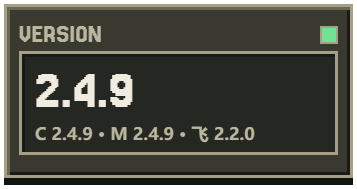
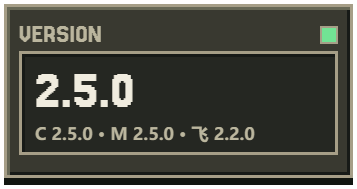
docs(release): 新增 2.5.0 发行说明与文档同步

Changed region(s): [[0.1849, 0.3704, 0.3697, 0.582], [0.4006, 0.6614, 0.493, 0.7407], [0.1849, 0.6614, 0.2773, 0.7407]]

diff --git a/README.md b/README.md
@@ -12,18 +12,18 @@
 </picture>
 
 <p>
-  <a href="https://github.com/Fish-under-sea/FISH-DOCK-Plugins/releases/tag/v2.4.9"><picture><source media="(prefers-color-scheme: dark)" srcset="assets/readme/config-stat-version-zh-dark.png"><img src="assets/readme/config-stat-version-zh-light.png" alt="VERSION：2.4.9（Magpie、Clash）" width="23%"></picture></a>
+  <a href="https://github.com/Fish-under-sea/FISH-DOCK-Plugins/releases/tag/v2.5.0"><picture><source media="(prefers-color-scheme: dark)" srcset="assets/readme/config-stat-version-zh-dark.png"><img src="assets/readme/config-stat-version-zh-light.png" alt="VERSION：2.5.0（Magpie、Clash）" width="23%"></picture></a>
   <a href="#plugins"><picture><source media="(prefers-color-scheme: dark)" srcset="assets/readme/config-stat-desktop-zh-dark.png"><img src="assets/readme/config-stat-desktop-zh-light.png" alt="PLUGINS：三个独立插件" width="23%"></picture></a>
   <a href="#packages"><picture><source media="(prefers-color-scheme: dark)" srcset="assets/readme/config-stat-mail-zh-dark.png"><img src="assets/readme/config-stat-mail-zh-light.png" alt="PACKAGES：三个 npm 单包" width="23%"></picture></a>
   <a href="https://github.com/Fish-under-sea/FISH-Dock"><picture><source media="(prefers-color-scheme: dark)" srcset="assets/readme/config-stat-channels-zh-dark.png"><img src="assets/readme/config-stat-channels-zh-light.png" alt="HOST API：1，兼容 FISH Dock 2.0.0+" width="23%"></picture></a>
 </p>
 
-<p><img src="https://img.shields.io/badge/Node.js-24.14%2B-8fd6a0?style=flat-square&amp;logo=nodedotjs&amp;logoColor=white&amp;labelColor=5a544a" alt="Node.js 24.14+"> <img src="https://img.shields.io/badge/Adapter%20License-MIT-8fd6a0?style=flat-square&amp;labelColor=5a544a" alt="插件适配代码许可 MIT"> <img src="https://img.shields.io/badge/mihomo-GPL--3.0-f08a5d?style=flat-square&amp;labelColor=5a544a" alt="随包 mihomo 许可 GPL-3.0"> <img src="https://img.shields.io/badge/Plugins-2.4.9-8fd6a0?style=flat-square&amp;labelColor=5a544a" alt="Magpie 2.4.9 与 Clash 2.4.9"></p>
+<p><img src="https://img.shields.io/badge/Node.js-24.14%2B-8fd6a0?style=flat-square&amp;logo=nodedotjs&amp;logoColor=white&amp;labelColor=5a544a" alt="Node.js 24.14+"> <img src="https://img.shields.io/badge/Adapter%20License-MIT-8fd6a0?style=flat-square&amp;labelColor=5a544a" alt="插件适配代码许可 MIT"> <img src="https://img.shields.io/badge/mihomo-GPL--3.0-f08a5d?style=flat-square&amp;labelColor=5a544a" alt="随包 mihomo 许可 GPL-3.0"> <img src="https://img.shields.io/badge/Plugins-2.5.0-8fd6a0?style=flat-square&amp;labelColor=5a544a" alt="Magpie 2.5.0 与 Clash 2.5.0"></p>
 <p><strong>FISH Plugins &amp; Configuration · 插件配置仓</strong><br>官方插件、配置说明与发行入口；按需安装，独立运行。</p>
 
 <p>
   <a href="#get-started"><picture><source media="(prefers-color-scheme: dark)" srcset="assets/readme/key-download-zh-dark.png"><img src="assets/readme/key-download-zh-light.png" alt="下载 / Releases" height="40"></picture></a>
-  <a href="https://github.com/Fish-under-sea/FISH-DOCK-Plugins/releases/tag/v2.4.9"><picture><source media="(prefers-color-scheme: dark)" srcset="assets/readme/key-release-zh-dark.png"><img src="assets/readme/key-release-zh-light.png" alt="更新记录" height="40"></picture></a>
+  <a href="https://github.com/Fish-under-sea/FISH-DOCK-Plugins/releases/tag/v2.5.0"><picture><source media="(prefers-color-scheme: dark)" srcset="assets/readme/key-release-zh-dark.png"><img src="assets/readme/key-release-zh-light.png" alt="更新记录" height="40"></picture></a>
   <a href="https://github.com/Fish-under-sea/FISH-DOCK-Plugins/issues"><picture><source media="(prefers-color-scheme: dark)" srcset="assets/readme/key-issues-zh-dark.png"><img src="assets/readme/key-issues-zh-light.png" alt="反馈 / Issues" height="40"></picture></a>
 </p>
 
@@ -35,10 +35,11 @@
 
 每个插件独立保存配置与凭据，按需启动，不共享业务密钥。插件仓只发布插件资源，桌面安装包请前往 [FISH-Dock](https://github.com/Fish-under-sea/FISH-Dock) 。
 
-当前发行（以 `catalog/stable.json` 为唯一权威）：Magpie **2.4.9**（原生标识 `v0.1.4530+fish.49`，要求 FISH Dock ≥ 2.3.4）、Clash **2.4.9**（要求 FISH Dock ≥ 2.0.0）、飞书 **2.2.0**。本版详见 [2.4.9 发行说明](docs/releases/2.4.9.md) （Magpie 追平上游 `v0.1.4530` 并重扫 163 条液态玻璃表面覆盖；Clash 修复 Issue #57 沙箱 CSP 下 `blob:` 壁纸上传失败并区分解码与压缩超限提示）；上版详见 [2.4.8 发行说明](docs/releases/2.4.8.md) 。
+当前发行（以 `catalog/stable.json` 为唯一权威）：Magpie **2.5.0**（原生标识 `v0.1.4650+fish.50`，要求 FISH Dock ≥ 2.3.4）、Clash **2.5.0**（内置 `mihomo v1.19.34`，要求 FISH Dock ≥ 2.0.0）、飞书 **2.2.0**。本版详见 [2.5.0 发行说明](docs/releases/2.5.0.md) （Magpie 追平上游 `v0.1.4650`、接入 Dock 玻璃与字体「跟随」、顶栏玻璃自动透明并收敛强调色对玻璃底色的染色；Clash 升级 `mihomo v1.19.34`、新增用户级环境变量代理开关、接入 Dock 玻璃与字体「跟随」并补齐深色字体单独设置）；上版详见 [2.4.9 发行说明](docs/releases/2.4.9.md) 。
 
-**最近版本**（当前 2.4.9；每一版的完整说明见 [docs/releases](docs/releases) ）
+**最近版本**（当前 2.5.0；每一版的完整说明见 [docs/releases](docs/releases) ）
 
+- **2.5.0** · Magpie（`fish.50`）：追平上游 `v0.1.4650` 并重扫 165 条玻璃表面规则，接入 Dock 液态玻璃与字体「跟随」（补齐 SSE 桥接与 Node 24 断流修复），玻璃模式下顶部服务条自动透明并收敛强调色对玻璃底色的染色；Clash：内置 `mihomo` 升级至 `v1.19.34`，新增显式环境变量代理开关（`HTTP_PROXY` / `HTTPS_PROXY` / `NO_PROXY` 与看门狗租约还原），接入 Dock 玻璃与字体「跟随」并补齐深色字体单独设置。→ [说明](docs/releases/2.5.0.md)
 - **2.4.9** · Magpie（`fish.49`）：追平上游 `v0.1.4530` 并重扫 163 条液态玻璃表面规则；Clash：修复严格沙箱 CSP（`img-src 'self' data:`）下 `blob:` URL 导致壁纸上传必败（改用 `createImageBitmap` + `FileReader` 兜底），分离格式/解码/超限报错文案。→ [说明](docs/releases/2.4.9.md)
 - **2.4.8** · Magpie（`fish.48`）：清除 `#view-providers .after-list::before` 遮罩背景条与 `.mo-node` 黑圈，统一路由卡/网关搜索与徽章/侧栏与弹层菜单/模型胶囊 `.mchip` 液态玻璃、未用连线改白、提升未选 Agent 图标可见度并同步 `distillRow()` 实时审阅计数。Clash：重构通用规则与双模式（系统代理真实 IP + TUN Fake-IP）DNS/Sniffer 管线，独立 `🐙 GitHub` 代理组接管 GitHub/npm 流量，修正 `cn.bing.com` 与微软/苹果国内服务直连，拦截海外 UDP 443（QUIC），过滤订阅信息伪节点并启用 `♻ 自动选择` 与 `🩺 故障转移`。→ [说明](docs/releases/2.4.8.md)
 - **2.4.7** · Magpie（`fish.47`）：补全 `.rt`、`.lib-card`、`.msk-*`、`.pr-*`、`.pu-*` 等外圈卡片与内层液态玻璃，清除 `.rt-hub` 4px 黑环与路由组/请求列表等黑块悬浮选中态，统一全站玻璃按钮样式；补齐 `--ctl-fg`、暗色字体权重与全局 `::placeholder` 调色命中；替换 Obsidian 紫色晶石图标。Clash：修复 TUN 服务自删、读写竞态断连、无内核独立开启与并发锁，优化 TUN 网速路由与 DNS 配置，修正输入框次要文字着色、节点组弹窗向下滚动展开、长日志换行与设置页头部 `16px` 边距。→ [说明](docs/releases/2.4.7.md)
@@ -54,7 +55,7 @@
 
 > ⚠ **2.0.0 是 breaking 版本**：插件清单新增 `behaviors` 字段，FISH Dock 1.2.3 及更早的宿主用 `deny_unknown_fields` 解析，会以「plugin.json 格式无效或含未知字段」直接拒装。**旧宿主请先把 Dock 升到 2.0.0**，再安装这些插件。
 
-> ⚠ npm 上 `@fish-under-sea/fish-dock-plugin-clash@1.1.0` 为误发版本（基于旧基线，缺少 1.0.4 的多订阅修复），请勿使用；当前 Magpie 与 Clash 单包均为 `2.4.9`、飞书是 `2.2.0`，OFM 停在 `2.0.1`（已退役）。
+> ⚠ npm 上 `@fish-under-sea/fish-dock-plugin-clash@1.1.0` 为误发版本（基于旧基线，缺少 1.0.4 的多订阅修复），请勿使用；当前 Magpie 与 Clash 单包均为 `2.5.0`、飞书是 `2.2.0`，OFM 停在 `2.0.1`（已退役）。
 
 <h2 id="plugins"><picture><source media="(prefers-color-scheme: dark)" srcset="assets/readme/section-features-dark.png"><img src="assets/readme/section-features-light.png" alt="PLUGINS · 三个插件" width="100%"></picture></h2>
 
@@ -66,13 +67,13 @@
 
 ### Clash 代理
 
-基于 `mihomo`（`v1.19.15`）内核的桌面代理控制插件，随包内置 `GeoSite.dat` 与 `GeoIP.dat` 规则数据，支持多订阅校验切换、代理组与节点延迟测速、Windows 系统代理接管与自愈看门狗、Windows TUN 虚拟网卡服务管理，以及独立「外观」调节与 360° Fresnel 液态玻璃主题。代理内核仅绑定本地回环地址，与宿主页状态同步互锁。作者：Elysia395、FISH。
+基于 `mihomo`（`v1.19.34`）内核的桌面代理控制插件，随包内置 `GeoSite.dat` 与 `GeoIP.dat` 规则数据，支持多订阅校验切换、代理组与节点延迟测速、Windows 系统代理与用户级环境变量代理（`HTTP_PROXY` / `HTTPS_PROXY` / `NO_PROXY`）接管与自愈看门狗、Windows TUN 虚拟网卡服务管理，以及独立「外观」调节与 360° Fresnel 液态玻璃主题（支持跟随 Dock 主题与深色字体单独设置）。代理内核仅绑定本地回环地址，与宿主页状态同步互锁。作者：Elysia395、FISH。
 
 <p align="center"><img src="assets/readme/clash.png" width="760" alt="Clash 代理插件界面"></p>
 
 ### Magpie 网关
 
-独立多模型网关与原生桌面管理页，统一管理订阅源、API Key、智能路由组与用量统计，并内置 Obsidian 知识库记忆 Agent，可直接串联多款本地 Coding Agent。管理页、模型网关与 Dock 嵌入代理各自采用独立回环端口，并与宿主插件卡共用「自启动」开关；界面支持四区域 360° Fresnel 液态玻璃、自定义壁纸与多层级字体配色。扩展页面插件（如「签到 & 探针」与「破甲」）按 npm 包登记并交由 Magpie 自主拉取更新。作者：FISH、Jassdingk。
+独立多模型网关与原生桌面管理页，统一管理订阅源、API Key、智能路由组与用量统计，并内置 Obsidian 知识库记忆 Agent，可直接串联多款本地 Coding Agent。管理页、模型网关与 Dock 嵌入代理各自采用独立回环端口，并与宿主插件卡共用「自启动」开关；界面支持四区域 360° Fresnel 液态玻璃、Dock 主题/玻璃「跟随」、自定义壁纸与多层级字体配色。扩展页面插件（如「签到 & 探针」与「破甲」）按 npm 包登记并交由 Magpie 自主拉取更新。作者：FISH、Jassdingk。
 
 <p align="center"><img src="assets/readme/magpie.png" width="760" alt="Magpie 网关插件界面"></p>
 
@@ -82,7 +83,7 @@
 
 <h2 id="get-started"><picture><source media="(prefers-color-scheme: dark)" srcset="assets/readme/section-install-dark.png"><img src="assets/readme/section-install-light.png" alt="INSTALL · 安装使用" width="100%"></picture></h2>
 
-安装前先核对宿主版本：Magpie 是 2.4.9（要求 FISH Dock ≥ 2.3.4）、Clash 是 2.4.9、飞书是 2.2.0，**FISH Dock 需要 2.0.0 及以上**；1.2.3 及更早的宿主会因清单里的 `behaviors` 字段拒装。
+安装前先核对宿主版本：Magpie 是 2.5.0（要求 FISH Dock ≥ 2.3.4）、Clash 是 2.5.0、飞书是 2.2.0，**FISH Dock 需要 2.0.0 及以上**；1.2.3 及更早的宿主会因清单里的 `behaviors` 字段拒装。
 
 **方式一：Dock 内插件市场（推荐）**
 
@@ -101,22 +102,22 @@
 | 插件 | GitHub 包 | npm 单包 |
 | --- | --- | --- |
 | 飞书 2.2.0 | [`feishu.fish-plugin`](https://github.com/Fish-under-sea/FISH-DOCK-Plugins/releases/download/v2.2.0/feishu.fish-plugin) | [`@fish-under-sea/fish-dock-plugin-feishu`](https://www.npmjs.com/package/@fish-under-sea/fish-dock-plugin-feishu/v/2.2.0) |
-| Clash 2.4.9 | [`clash.fish-plugin`](https://github.com/Fish-under-sea/FISH-DOCK-Plugins/releases/download/v2.4.9/clash.fish-plugin) | [`@fish-under-sea/fish-dock-plugin-clash`](https://www.npmjs.com/package/@fish-under-sea/fish-dock-plugin-clash/v/2.4.9) |
-| Magpie 2.4.9 | [`magpie.fish-plugin`](https://github.com/Fish-under-sea/FISH-DOCK-Plugins/releases/download/v2.4.9/magpie.fish-plugin) | [`@fish-under-sea/fish-dock-plugin-magpie`](https://www.npmjs.com/package/@fish-under-sea/fish-dock-plugin-magpie/v/2.4.9) |
+| Clash 2.5.0 | [`clash.fish-plugin`](https://github.com/Fish-under-sea/FISH-DOCK-Plugins/releases/download/v2.5.0/clash.fish-plugin) | [`@fish-under-sea/fish-dock-plugin-clash`](https://www.npmjs.com/package/@fish-under-sea/fish-dock-plugin-clash/v/2.5.0) |
+| Magpie 2.5.0 | [`magpie.fish-plugin`](https://github.com/Fish-under-sea/FISH-DOCK-Plugins/releases/download/v2.5.0/magpie.fish-plugin) | [`@fish-under-sea/fish-dock-plugin-magpie`](https://www.npmjs.com/package/@fish-under-sea/fish-dock-plugin-magpie/v/2.5.0) |
 
 <h2 id="packages"><picture><source media="(prefers-color-scheme: dark)" srcset="assets/readme/section-packages-dark.png"><img src="assets/readme/section-packages-light.png" alt="PACKAGES · npm 单包" width="100%"></picture></h2>
 
-每个 npm 包只包含一个对应的插件归档和下载 CLI（bin 名 `fish-dock-plugin-<插件>`），不运行安装后脚本，不修改 Dock 或系统设置。当前 npm 上 **Magpie 与 Clash 均为 2.4.9、飞书是 2.2.0**（OFM 单包停在 2.0.1，已退役只供手动下载），要求 **Node.js ≥ 24** 与 **FISH Dock ≥ 2.0.0**。
+每个 npm 包只包含一个对应的插件归档和下载 CLI（bin 名 `fish-dock-plugin-<插件>`），不运行安装后脚本，不修改 Dock 或系统设置。当前 npm 上 **Magpie 与 Clash 均为 2.5.0、飞书是 2.2.0**（OFM 单包停在 2.0.1，已退役只供手动下载），要求 **Node.js ≥ 24** 与 **FISH Dock ≥ 2.0.0**。
 
 | npm 单包（完整包名） | 版本 | bin | `npm pack` 体积 |
 | --- | --- | --- | --- |
 | `@fish-under-sea/fish-dock-plugin-feishu` | 2.2.0 | `fish-dock-plugin-feishu` | 38.6 kB（6 个文件） |
-| `@fish-under-sea/fish-dock-plugin-clash` | 2.4.9 | `fish-dock-plugin-clash` | 16.9 MB（7 个文件，含 mihomo 许可） |
-| `@fish-under-sea/fish-dock-plugin-magpie` | 2.4.9 | `fish-dock-plugin-magpie` | 51.9 MB（7 个文件，含 Magpie 许可） |
+| `@fish-under-sea/fish-dock-plugin-clash` | 2.5.0 | `fish-dock-plugin-clash` | 27.4 MB（7 个文件，含 mihomo 许可） |
+| `@fish-under-sea/fish-dock-plugin-magpie` | 2.5.0 | `fish-dock-plugin-magpie` | 55.3 MB（7 个文件，含 Magpie 许可） |
 | `@fish-under-sea/fish-dock-plugin-ofm` | 2.0.1（暂停维护，仅手动） | `fish-dock-plugin-ofm` | 1.9 MB（6 个文件） |
 
 ```powershell
-npm install @fish-under-sea/fish-dock-plugin-clash@2.4.9
+npm install @fish-under-sea/fish-dock-plugin-clash@2.5.0
 npx @fish-under-sea/fish-dock-plugin-clash --out C:/work/plugins
 ```
 
@@ -147,7 +148,7 @@ node --test --test-isolation=none 'plugins/feishu/*.test.mjs' 'plugins/clash/*.t
 | [自编译 Magpie](plugins/magpie/tools/README.md) | 补丁清单与每一处为什么补、构建命令、版本标识、跟着上游升级时会踩的坑 |
 | [签到&探针说明](https://github.com/Fish-under-sea/magpie-checkin-relay-probe) | 宿主提供哪些读与调用、「预装插件美化」开关怎么工作、素材为什么编进 exe |
 | [厂商素材来源](https://github.com/Fish-under-sea/magpie-checkin-relay-probe/tree/main/page/checkin/logos) | 每张厂商图的来源、裁切范围与授权状况 |
-| [发行说明](docs/releases/) | 逐版本的改动与验证；最新是 [2.4.9](docs/releases/2.4.9.md) |
+| [发行说明](docs/releases/) | 逐版本的改动与验证；最新是 [2.5.0](docs/releases/2.5.0.md) |
 | [第三方许可](THIRD_PARTY_NOTICES.md) | 随包运行时的许可与来源（mihomo 的 GPL-3.0、Magpie 的随包许可等） |
 | [README 头图维护](assets/readme/MAINTAINING.md) | 头图怎么渲染、字号与卡片尺寸的约束、哪些东西不能换 |
 

diff --git a/docs/releases/2.5.0.md b/docs/releases/2.5.0.md
@@ -1,0 +1,36 @@
+# 2.5.0 发行说明
+
+**Magpie** 升级到 **2.5.0**（追平上游 `yetone/magpie@v0.1.4650`，累计补丁 `v0.1.4650+fish.50` / Windows FileVersion `0.1.4650.50`，要求 FISH Dock ≥ 2.3.4），**Clash** 升级到 **2.5.0**（内置内核升级至 `mihomo v1.19.34`、新增用户级环境变量代理开关、接入 Dock 玻璃与字体「跟随」并补齐深色字体单独设置，要求 FISH Dock ≥ 2.0.0），**飞书**保持 `2.2.0` 不变。
+
+## 本版更新（Clash 2.5.0）
+
+- **新增显式环境变量代理（`HTTP_PROXY` / `HTTPS_PROXY` / `NO_PROXY`）**：在「网络设置」卡片新增独立开关（默认开启，便于 TUN 模式与终端 / AGY 工具链直接复用代理）。内核启动时写入 `HKCU\Environment` 并广播 `WM_SETTINGCHANGE`，自动保留已有 `NO_PROXY` 例外并去重补齐本机回环；停机、异常退出、启动自愈与 Windows 看门狗 `recover` 均同步还原 `system-proxy.json` 与 `env-proxy.json` 租约。
+- **内置 `mihomo` 内核升级至 `v1.19.34`**：由 `v1.19.15` 升级至上游 `mihomo-windows-amd64-compatible-v1.19.34`（Go 1.26.11 / `with_gvisor`），通过实机配置语法与多订阅 SafePath 校验。
+- **液态玻璃与字体颜色接入 Dock Hook（「跟随」）+ 深色字体单独设置**：接入新版宿主 `FishDock.theme`，液态玻璃预设与字体颜色模式均新增「跟随」选项；补齐字体颜色「深色单独设置」（`fontDark` / `fontDarkOn`）；收敛玻璃表面不随强调色染色，且不额外引入强调色选择器。
+
+## 本版更新（Magpie 2.5.0 · `fish.50` · 基线 `v0.1.4650`）
+
+- **上游追平至 `v0.1.4650`**：合入上游最新网关、供应商与界面改动，消解 `fish.49` 全部 8 处冲突与 `geminiServed` 命名冲突（fish 侧改为 `audioGeminiServed`），修正 `i18n.js` 缩进并重扫 `glass-surfaces.mjs --write`（165 条玻璃表面规则），导出新累计补丁 `magpie-v0.1.4650+fish.50.patch`；同步更新脚本字节预算（`appScriptBudget = 1_099_222`、`coreScriptBudget = 1_285_652`）。
+- **液态玻璃与字体颜色接入 Dock Hook（「跟随」）**：适配层（`embed-proxy.mjs`、`shared/gateway-page.js`）新增 `/api/fish/dock-theme`、SSE `/api/fish/dock-theme/stream` 与 `/api/fish/glass-state` 桥接，并修复 Node 24 下 `req.once('close')` 过早断开 SSE 流的问题；Magpie 外观页液态玻璃预设与字体颜色模式均新增「跟随」并持久化 `fishGlassFollow` / `fontColorsFollow`。
+- **玻璃模式下顶部服务条自动透明**：`shared/gateway-page.css` / `shared/gateway-page.js` 在 `data-dock-glass="1"` 或 `data-magpie-glass="1"` 生效时自动隐藏顶部服务栏黑色底色（不增设开关，保留 `prefers-reduced-transparency: reduce` 与 `forced-colors: active` 可读性回退）。
+- **收敛字体强调色对液态玻璃的染色**：在 `fish-glass.css` 中将玻璃表面/卡片/面板/遮罩底色收敛为中性色，并移除 `.rt-groups > .rt-gedit` 的 `--accent` 底色铺染，保留开关、聚焦与文字强调色本身。
+
+## 下载与校验
+
+| 产物 | 大小 | SHA-256 |
+| --- | --- | --- |
[4 lines of base64/hex data omitted]
+
+- npm 单包：
+  - `@fish-under-sea/fish-dock-plugin-clash@2.5.0`（压缩后 27.4 MB，解包 27.8 MB，7 个文件）
+  - `@fish-under-sea/fish-dock-plugin-magpie@2.5.0`（压缩后 55.3 MB，解包 55.4 MB，7 个文件）
[1 lines of base64/hex data omitted]
+
+## 验证范围
+
+- **Magpie `fish.50`**：干净 `v0.1.4650` + `magpie-v0.1.4650+fish.50.patch` 导出、`check-assets-refs.mjs` 悬空引用校验、`fish-glass.test.cjs`（8/8 通过）、`go test ./internal/gui` 定向核心/外观/持久化用例（16/16 通过）及 `memagent` / `memory` / `fishvault` / `relay` / `settingsapi` / `settings`（跳过上游既有 2s `filememo` 窗口项 `TestSharedCheckedReadsOnceAndKnowsUnknown`）全部通过。
+- **全仓 JS/CJS 套件**：进程隔离 `node --test` 注入实机 `mihomo v1.19.34` 与 `magpie v0.1.4650+fish.50` 跑完主套件 388 项（385 通过 / 0 失败 / 3 按环境跳过）及 Obsidian 插件测试 15/15 通过；真实 Edge + Playwright 定向运行 `page.browser.test.mjs`（`Dock Glass Follow|严格 CSP`）2/2 通过。
+- **发行物校验**：拉取最新含 `FishDock.theme` 钩子的 Dock SDK 打包，`verify-release.mjs`（逐资源 SHA-256 + `.mjs` 语法门 + npm 字节一致性）与 `npm pack --dry-run` 校验通过。

diff --git a/docs/maintainers/README.md b/docs/maintainers/README.md
@@ -1,8 +1,8 @@
 # 插件维护者指南
 
-2.0.0 把当时的四个官方插件一起升到大版本：飞书、Clash、Magpie、OFM 全部 2.0.0，配套 FISH Dock 2.0.0+。作者改为数组、维护者字段整体去掉。OFM 已于 2026-10-25 暂停维护，2.3.0 起从官方目录与活动构建链退役，历史适配层见 [docs/archive/ofm](../archive/ofm/README.md) 。Magpie 随包的原生服务早已不是官方版：2.0.1 起是**源码自编译**（基线上游 tag 加我们自己的补丁，当前 `v0.1.4530+fish.49`），原因与补丁清单见 [自编译说明](../../plugins/magpie/tools/README.md) 。
+2.0.0 把当时的四个官方插件一起升到大版本：飞书、Clash、Magpie、OFM 全部 2.0.0，配套 FISH Dock 2.0.0+。作者改为数组、维护者字段整体去掉。OFM 已于 2026-10-25 暂停维护，2.3.0 起从官方目录与活动构建链退役，历史适配层见 [docs/archive/ofm](../archive/ofm/README.md) 。Magpie 随包的原生服务早已不是官方版：2.0.1 起是**源码自编译**（基线上游 tag 加我们自己的补丁，当前 `v0.1.4650+fish.50`），原因与补丁清单见 [自编译说明](../../plugins/magpie/tools/README.md) 。
 
-**当前版本**（以 `catalog/stable.json` 为唯一权威）：飞书 **2.2.0**、Clash **2.4.9**、Magpie **2.4.9**（Magpie exe `v0.1.4530+fish.49`，追平上游 `v0.1.4530` 并重扫 163 条液态玻璃表面规则；Clash 修复 Issue #57 严格沙箱 CSP 下壁纸上传失败，改用 `createImageBitmap` + `FileReader` 兜底并拆分报错提示）。发行走 `v2.x.y` 之类的总 tag，一个 release 里放当次要发的包——不必三插件同版。发行工具生成标准 ZIP 插件包、逐资源 SHA-256、商店目录及总摘要；桌面安装器与业务插件分别在各自仓库发布。
+**当前版本**（以 `catalog/stable.json` 为唯一权威）：飞书 **2.2.0**、Clash **2.5.0**、Magpie **2.5.0**（Magpie exe `v0.1.4650+fish.50`，追平上游 `v0.1.4650`、接入 Dock 玻璃与字体「跟随」、玻璃模式顶栏自动透明并收敛强调色对玻璃底色的染色；Clash 内置内核升级至 `mihomo v1.19.34`，新增用户级环境变量代理开关并同步租约与看门狗恢复，接入 Dock 玻璃与字体「跟随」并补齐深色字体单独设置）。发行走 `v2.x.y` 之类的总 tag，一个 release 里放当次要发的包——不必三插件同版。发行工具生成标准 ZIP 插件包、逐资源 SHA-256、商店目录及总摘要；桌面安装器与业务插件分别在各自仓库发布。
 
 ## 身份表
 
@@ -28,11 +28,11 @@
 
 | 资源 | 当前开发验证来源 | 处理方式 |
 | --- | --- | --- |
-| Magpie | `yetone/magpie`，基线 `v0.1.4344`，按 [自编译说明](../../plugins/magpie/tools/README.md) 加 `patches/` 最新补丁自行构建（版本标识 `v0.1.4344+fish.48` / FileVersion `0.1.4344.48`） | 独立进程；逐文件摘要记录于插件清单 |
-| mihomo | v1.19.15，`mihomo-windows-amd64-compatible-v1.19.15.zip` | 校验下载后暂存可执行文件，首次按需启动 |
+| Magpie | `yetone/magpie`，基线 `v0.1.4650`，按 [自编译说明](../../plugins/magpie/tools/README.md) 加 `patches/` 最新补丁自行构建（版本标识 `v0.1.4650+fish.50` / FileVersion `0.1.4650.50`） | 独立进程；逐文件摘要记录于插件清单 |
+| mihomo | v1.19.34，`mihomo-windows-amd64-compatible-v1.19.34.zip` | 校验下载后暂存可执行文件，首次按需启动 |
 | Node SDK | 同版 Dock 仓的 `sdk/node/plugin.mjs` | 复制到各插件，与宿主 API 1 联调 |
 
[2 lines of base64/hex data omitted]
 
 Windhawk 属于 Dock 宿主。其固定下载、安装、提权和源码编译的实现不在业务插件仓重复维护。自动回归使用合成安装与编译夹具；真实系统安装或应用仍需要用户在界面确认。
 

diff --git a/docs/developers/README.md b/docs/developers/README.md
@@ -1,6 +1,6 @@
 # 插件开发者指南
 
-当前协议为 v1。目录里当前是飞书 **2.2.0**、Clash **2.4.9**、Magpie **2.4.9**（后者原生标识 `v0.1.4530+fish.49`，要求宿主 ≥ 2.3.4）——Magpie 具备四区域液态玻璃与独立玻璃颜色、全页面控件/路由/网关/模型胶囊与选中悬浮玻璃样式统一、多层级字体调色（含 `--ctl-fg` 与全局占位符）命中、「外观」独立分页、原生服务内置记忆 Agent（含紫色晶石 Obsidian 图标与审阅计数同步）与 Obsidian `.obsidian` 统一工作区；Clash 具备多订阅管理与套餐信息伪节点过滤、系统代理与 TUN 双模式通用高性能 DNS/Sniffer 管线、独立 GitHub/npm 分流与故障转移代理组、自愈看门狗、Windows TUN 虚拟网卡服务控制与独立外观设置（含沙箱 CSP 兼容壁纸上传）。作者用数组、不再有维护者字段。OFM 已退役（2026-10-25 暂停维护，2.3.0 起移出官方目录与活动构建链），历史适配层见 [docs/archive/ofm](../archive/ofm/README.md) ，不再随目录发行。两个内置件按 npm 包登记、不单独发行：`@fish-under-sea/magpie-checkin-relay-probe`（签到与中转站探针合一的页面插件）与 `@fish-under-sea/magpie-purge`（破甲），首装与后续更新都交给 magpie 自己的更新循环，Dock 不随包分发它们的目录。两者的源码分别在 [magpie-checkin-relay-probe](https://github.com/Fish-under-sea/magpie-checkin-relay-probe) 与 [magpie-purge](https://github.com/Fish-under-sea/magpie-purge) 。源码已接入独立后台、分类存储和业务页面；发行资源与线上索引由插件仓 Release 提供。
+当前协议为 v1。目录里当前是飞书 **2.2.0**、Clash **2.5.0**、Magpie **2.5.0**（后者原生标识 `v0.1.4650+fish.50`，要求宿主 ≥ 2.3.4）——Magpie 具备四区域液态玻璃与 Dock 主题/玻璃「跟随」联动、顶部服务条玻璃自动透明、强调色与玻璃底色解耦、多层级字体调色（含 `--ctl-fg` 与全局占位符）命中、「外观」独立分页、原生服务内置记忆 Agent（含紫色晶石 Obsidian 图标与审阅计数同步）与 Obsidian `.obsidian` 统一工作区；Clash 内置 `mihomo v1.19.34`，具备多订阅管理与套餐信息伪节点过滤、系统代理与用户级环境变量代理（`HTTP_PROXY` / `HTTPS_PROXY` / `NO_PROXY`）与 TUN 双模式通用高性能 DNS/Sniffer 管线、独立 GitHub/npm 分流与故障转移代理组、自愈看门狗、Windows TUN 虚拟网卡服务控制与独立外观设置（含 Dock 玻璃与字体「跟随」、深色字体单独设置与沙箱 CSP 兼容壁纸上传）。作者用数组、不再有维护者字段。OFM 已退役（2026-10-25 暂停维护，2.3.0 起移出官方目录与活动构建链），历史适配层见 [docs/archive/ofm](../archive/ofm/README.md) ，不再随目录发行。两个内置件按 npm 包登记、不单独发行：`@fish-under-sea/magpie-checkin-relay-probe`（签到与中转站探针合一的页面插件）与 `@fish-under-sea/magpie-purge`（破甲），首装与后续更新都交给 magpie 自己的更新循环，Dock 不随包分发它们的目录。两者的源码分别在 [magpie-checkin-relay-probe](https://github.com/Fish-under-sea/magpie-checkin-relay-probe) 与 [magpie-purge](https://github.com/Fish-under-sea/magpie-purge) 。源码已接入独立后台、分类存储和业务页面；发行资源与线上索引由插件仓 Release 提供。
 
 ## 仓库边界
 
